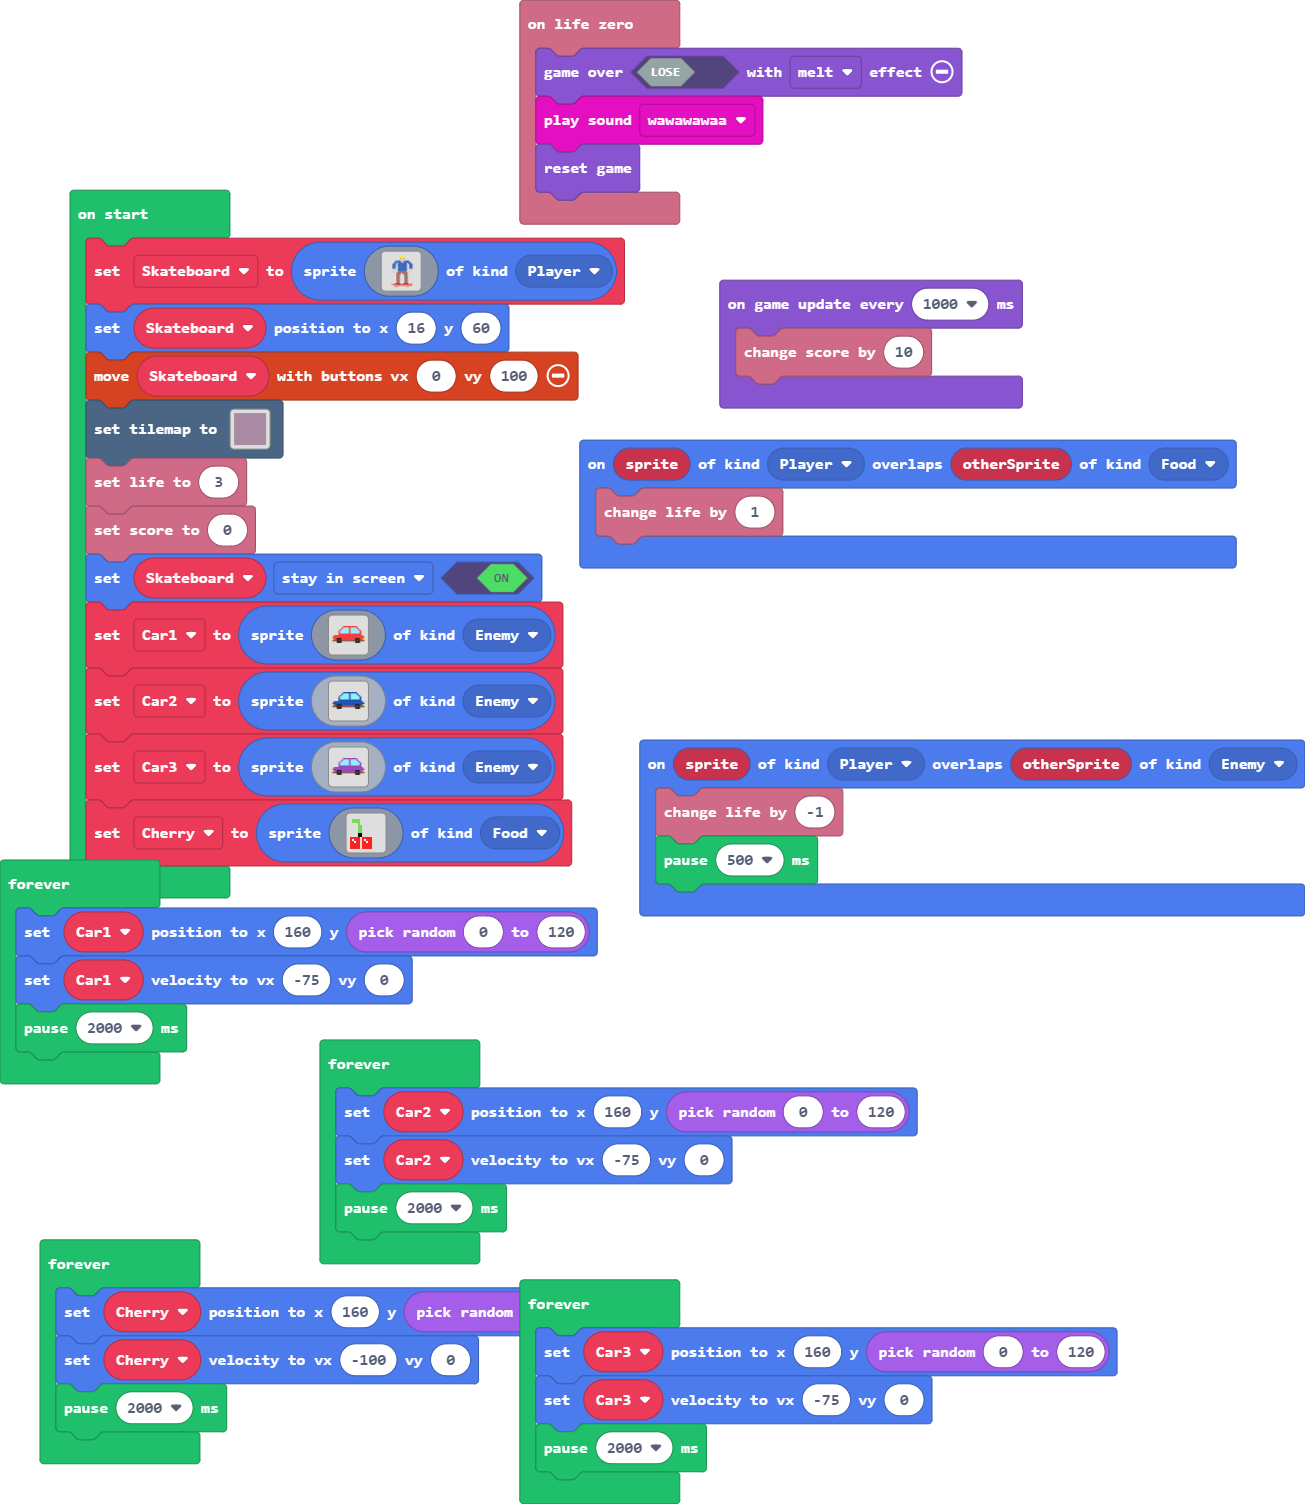
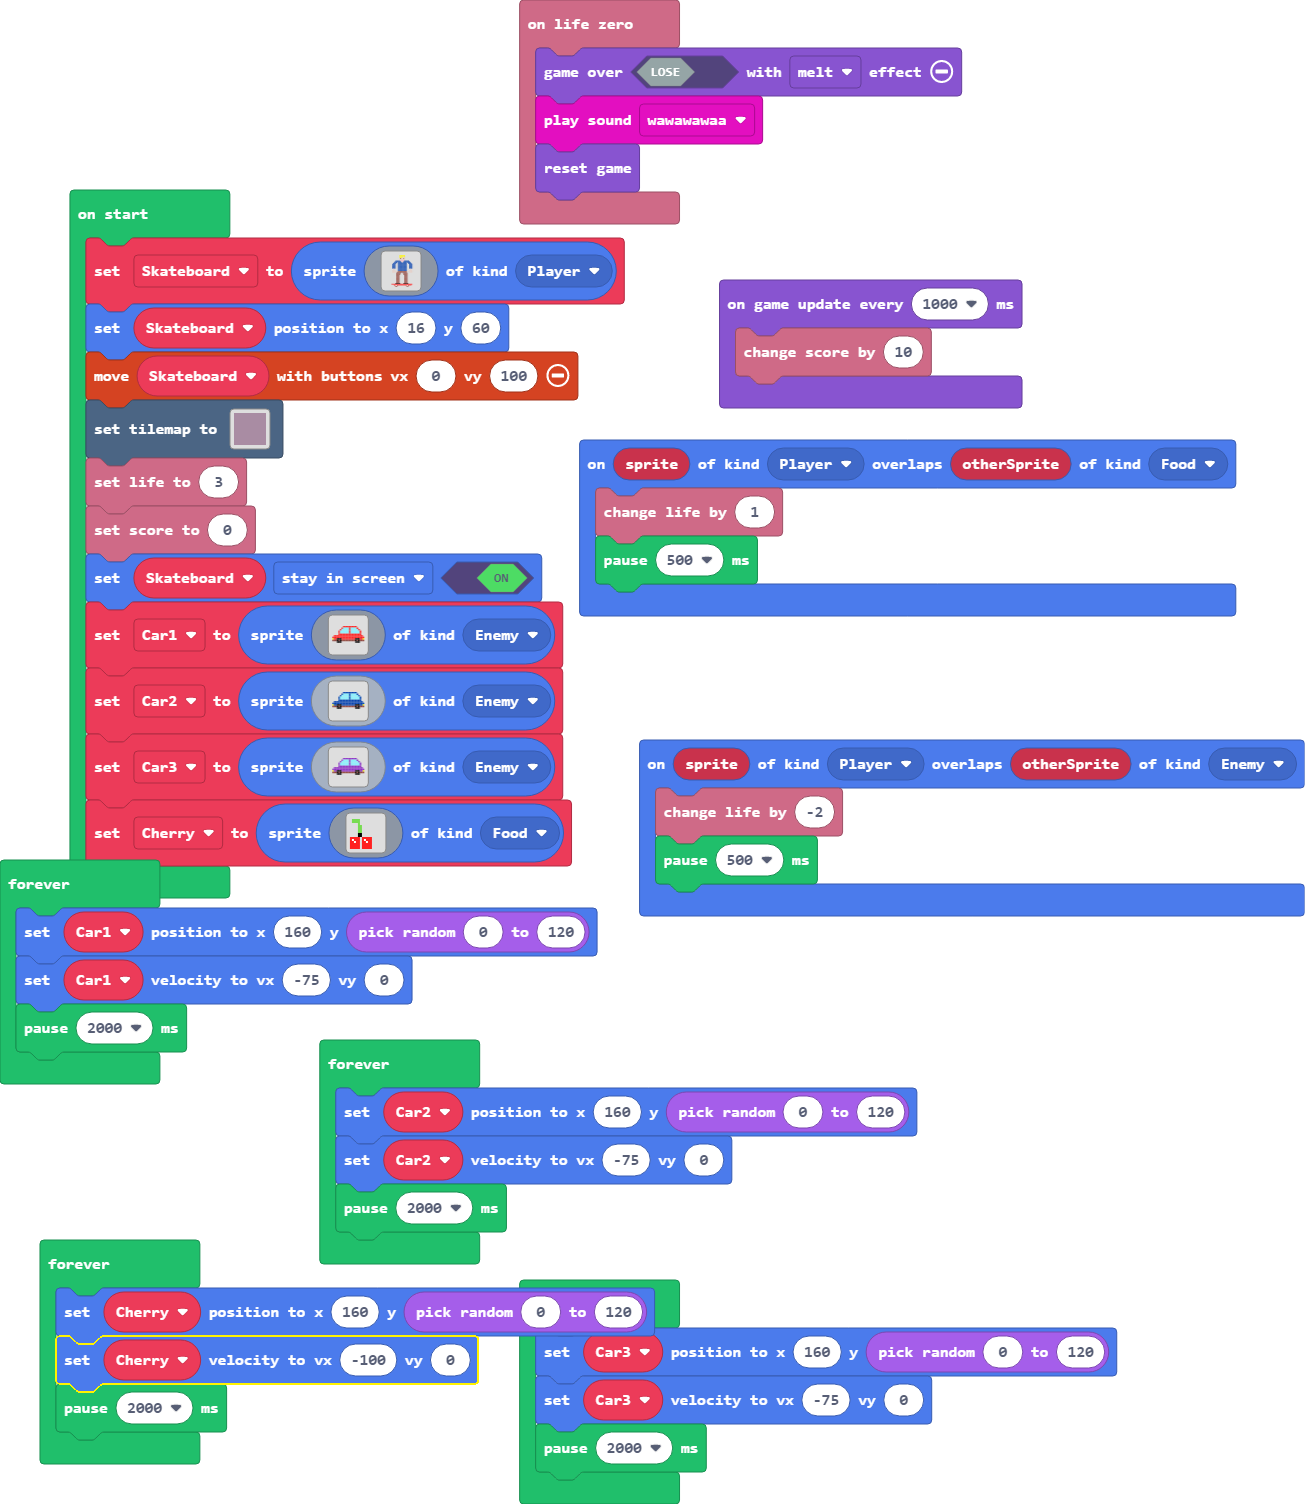
Update main.blocks, main.ts

diff --git a/main.ts b/main.ts
@@ -5,9 +5,10 @@ info.onLifeZero(function () {
 })
 sprites.onOverlap(SpriteKind.Player, SpriteKind.Food, function (sprite, otherSprite) {
     info.changeLifeBy(1)
+    pause(500)
 })
 sprites.onOverlap(SpriteKind.Player, SpriteKind.Enemy, function (sprite, otherSprite) {
-    info.changeLifeBy(-1)
+    info.changeLifeBy(-2)
     pause(500)
 })
 let Skateboard = sprites.create(img`
